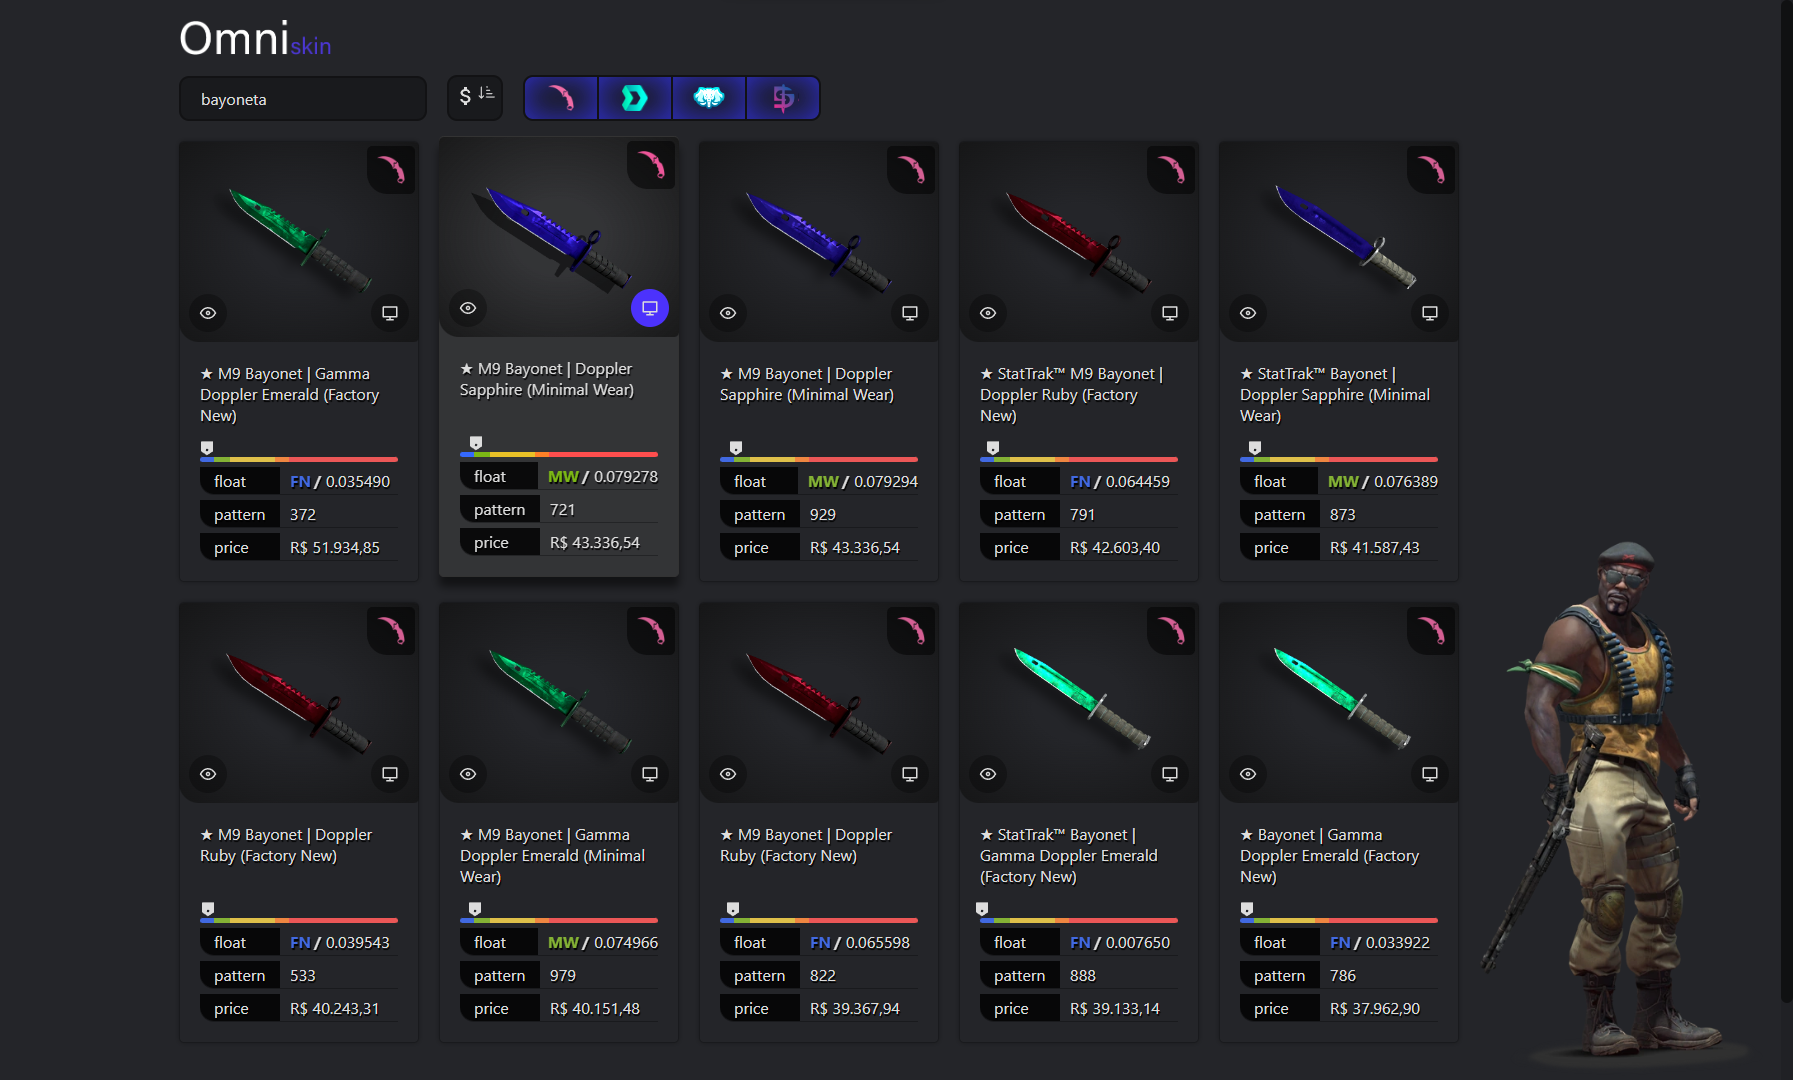
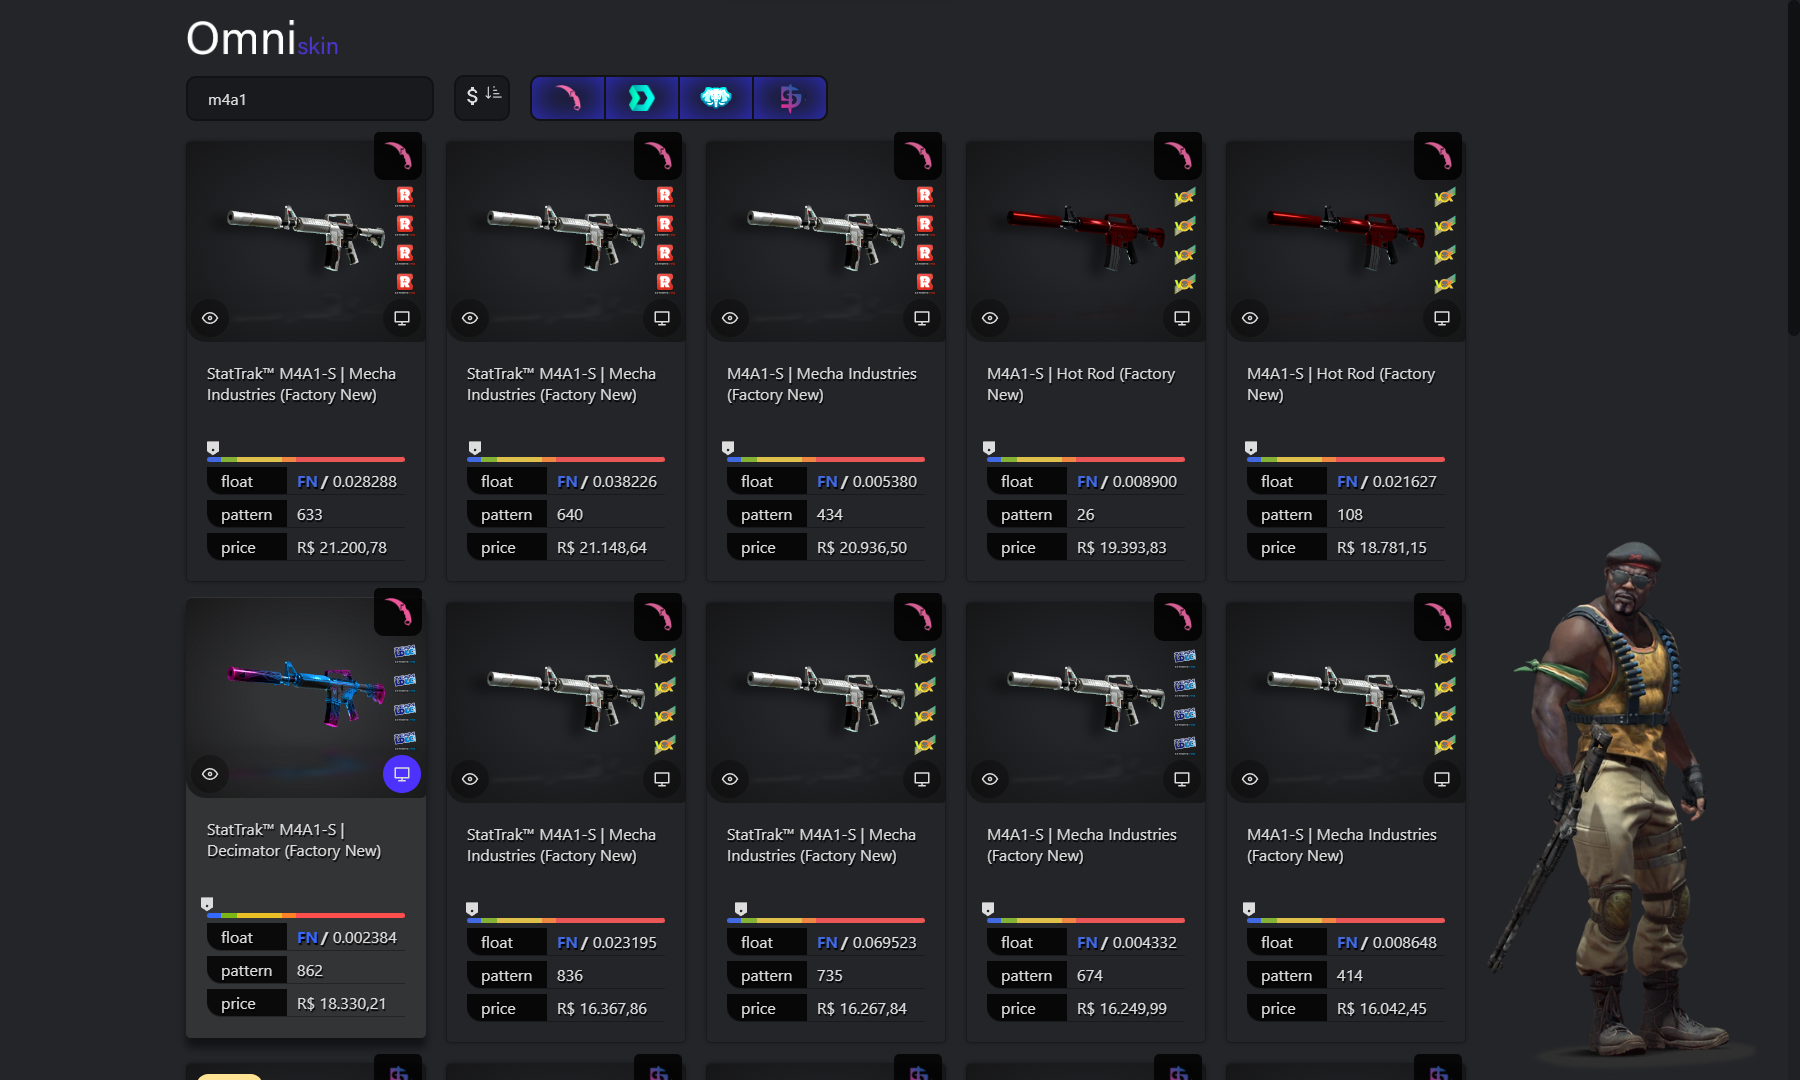
Added skin stickers

diff --git a/src/components/Card/style.ts b/src/components/Card/style.ts
@@ -104,10 +104,10 @@ export const Container = styled.div`
       }
 
       .skin-imageContainer .skin-imageShadow {
-         position: absolute;
          top: 80%;
          left: 50%;
-         transform: translate(-50%, -50%);
+         transform: translate(-50%, -80%) rotateX(117deg);
+         background-position-y: 0px;
       }
    }
 
@@ -144,16 +144,50 @@ export const Container = styled.div`
 
    .skin-imageContainer .skin-store {
       position: absolute;
-      top: 4px;
+      top: -10px;
       right: 4px;
       display: flex;
       align-items: center;
       justify-content: center;
       width: 48px;
       padding: 10px;
-      background-color: rgba(0, 0, 0, 0.5);
+      background-color: rgba(0, 0, 0, 0.8);
       border-radius: inherit;
-      border-bottom-left-radius: 20px;
+      border-bottom-left-radius: 10px;
+      border-bottom-right-radius: 10px;
+   }
+
+   .skin-imageContainer .skin-stickers {
+      position: absolute;
+      top: 0;
+      right: 5px;
+      display: flex;
+      flex-direction: column;
+      align-items: center;
+      justify-content: center;
+      gap: 5px;
+      height: 98%;
+   }
+
+   @media only screen and (max-width: 536px) {
+      .skin-imageContainer .skin-stickers {
+         top: auto;
+         bottom: 5px;
+         flex-direction: row;
+         gap: 0;
+         width: 90%;
+         height: auto;
+      }
+   }
+
+   .skin-imageContainer .skin-sticker {
+      width: 32px;
+   }
+
+   @media only screen and (max-width: 536px) {
+      .skin-imageContainer .skin-sticker {
+         width: 28px;
+      }
    }
 
    .skin-imageContainer .skin-inspectGame,
@@ -176,16 +210,13 @@ export const Container = styled.div`
    }
 
    .skin-imageContainer .skin-inspectGame {
-      bottom: 10px;
-      left: 10px;
-   }
-   .skin-imageContainer .skin-inspectServer {
-      right: 10px;
+      bottom: 5px;
+      left: 5px;
    }
 
    .skin-imageContainer .skin-inspectServer {
-      bottom: 10px;
-      right: 10px;
+      bottom: 5px;
+      right: 5px;
    }
 
    .skin-imageContainer .skin-inspectGame:hover,

diff --git a/src/services/api.ts b/src/services/api.ts
@@ -107,6 +107,12 @@ export const api = {
                   image: item.steamImg,
                   inspect: `steam://rungame/730/76561202255233023/+csgo_econ_action_preview S${item.steamId}A${item.assetId}D${item.inspect}`,
                   availableAt: api.formatLockInterval(lockInterval),
+                  stickers:
+                     item.stickers &&
+                     item.stickers.map((sticker) => ({
+                        name: sticker.name,
+                        image: sticker.img,
+                     })),
                }
             })
          } catch (e) {
@@ -168,6 +174,12 @@ export const api = {
                image: item.image,
                inspect: item.extra.inspectInGame,
                availableAt: api.formatLockInterval(lockInterval),
+               stickers:
+                  item.extra.stickers &&
+                  item.extra.stickers.map((sticker) => ({
+                     name: sticker.name,
+                     image: sticker.image,
+                  })),
             }
          })
       }
@@ -232,6 +244,12 @@ export const api = {
                   .split('D')
                   .pop()}`,
                availableAt: api.formatLockInterval(lockInterval, 1),
+               stickers:
+                  item.stickers &&
+                  item.stickers.map((sticker) => ({
+                     name: sticker.name,
+                     image: sticker.image,
+                  })),
             }
          })
       }
@@ -296,6 +314,12 @@ export const api = {
                image: item.img,
                inspect: item.inspectLink,
                availableAt: api.formatLockInterval(lockInterval, 2),
+               stickers:
+                  item.stickers &&
+                  item.stickers.map((sticker) => ({
+                     name: sticker.name,
+                     image: sticker.imageUrl,
+                  })),
             }
          })
       }

diff --git a/src/services/types/api.ts b/src/services/types/api.ts
@@ -23,7 +23,17 @@ export interface ICsmoneySkin {
    screenshot: string
    steamId: string
    steamImg: string
-   stickers: string
+   stickers: [
+      {
+         img: string
+         name: string
+         overprice: number
+         position: number
+         price: number
+         wear: number
+         wikiLink: string
+      }
+   ]
    tradeLock: number
    type: number
    userId: string
@@ -52,6 +62,12 @@ export interface IDmarketSkin {
       paintSeed: number
       quality: string
       saleRestricted: boolean
+      stickers: [
+         {
+            name: string
+            image: string
+         }
+      ]
       tradable: boolean
       tradeLockDuration: number
       viewAtSteam: string
@@ -113,7 +129,15 @@ export interface INeshastoreSkin {
    slug: string
    slugType: string
    status: number
-   stickers: []
+   stickers: [
+      {
+         imageUrl: string
+         name: string
+         nameBr: string
+         slot: number
+         wear: string
+      }
+   ]
    tags: []
    tradelockExpiration: string
    type: number
@@ -151,7 +175,12 @@ export interface IDashSkin {
    quality: string
    rarity: string
    steamPrice: number
-   stickers: []
+   stickers: [
+      {
+         name: string
+         image: string
+      }
+   ]
    tradedAt: string
    type: string
    updatedAt: string
@@ -197,6 +226,12 @@ export interface ISkin {
    quality: string
    float: number
    pattern: number
+   stickers?: [
+      {
+         name: string
+         image: string
+      }
+   ]
    price: number
    priceFormated: string
    inspect: string

diff --git a/src/components/Card/index.tsx b/src/components/Card/index.tsx
@@ -55,6 +55,18 @@ export const Card = ({ skin }: IProps) => {
                      className='skin-store'
                      src={skin.store.icon}
                   />
+
+                  <div className='skin-stickers'>
+                     {skin.stickers?.map((sticker) => (
+                        <img
+                           className='skin-sticker'
+                           alt={sticker.name}
+                           title={sticker.name}
+                           src={sticker.image}
+                        />
+                     ))}
+                  </div>
+
                   <a
                      className='skin-inspectGame'
                      href={skin.inspect}

diff --git a/src/style.ts b/src/style.ts
@@ -60,7 +60,6 @@ const backgroundAvatarList = [
    agent40,
    agent41,
    agent42,
-   'https://cdn.hellcase.com/warbreak/img/agent/operator-fbi-swat.png',
    'https://cdn.akamai.steamstatic.com/apps/csgo/images/operationriptide/agents/gendarm_d.png?v=2',
    'https://cdn.akamai.steamstatic.com/apps/csgo/images/operationriptide/agents/gendarm_c.png?v=3',
    'https://cdn.akamai.steamstatic.com/apps/csgo/images/operationriptide/agents/swat_k.png?v=2',

diff --git a/src/stores/omniskin/index.ts b/src/stores/omniskin/index.ts
@@ -5,12 +5,15 @@ import { api } from 'services/api'
 import { OminiskinState } from './types'
 
 const randomSkinName = [
+   'eagle',
+   'usp',
+   'm4a1',
+   'ak-47',
    'butterfly',
    'bayoneta',
-   'karambit',
-   'talon',
-   'skeleton knife',
+   'flip knife',
    'cobalt skulls',
+   'glove',
 ]
 
 const randomIndex = Math.round(Math.random() * (randomSkinName.length - 1))
